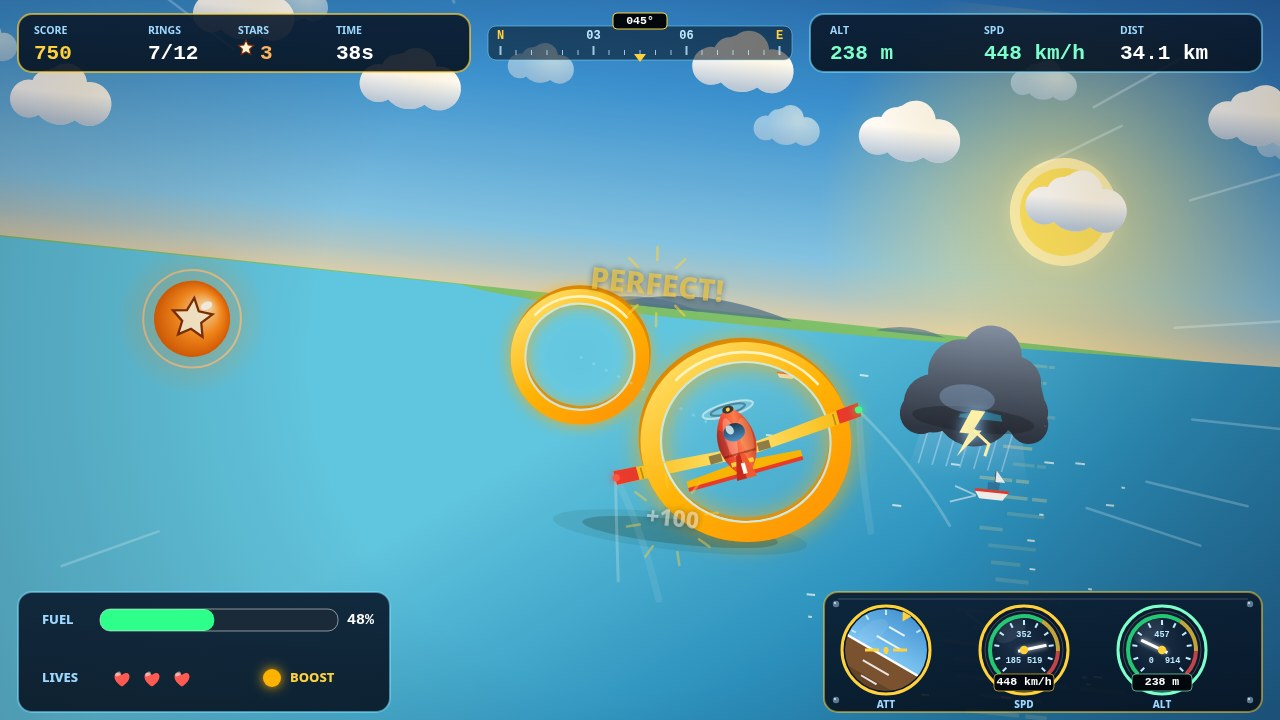
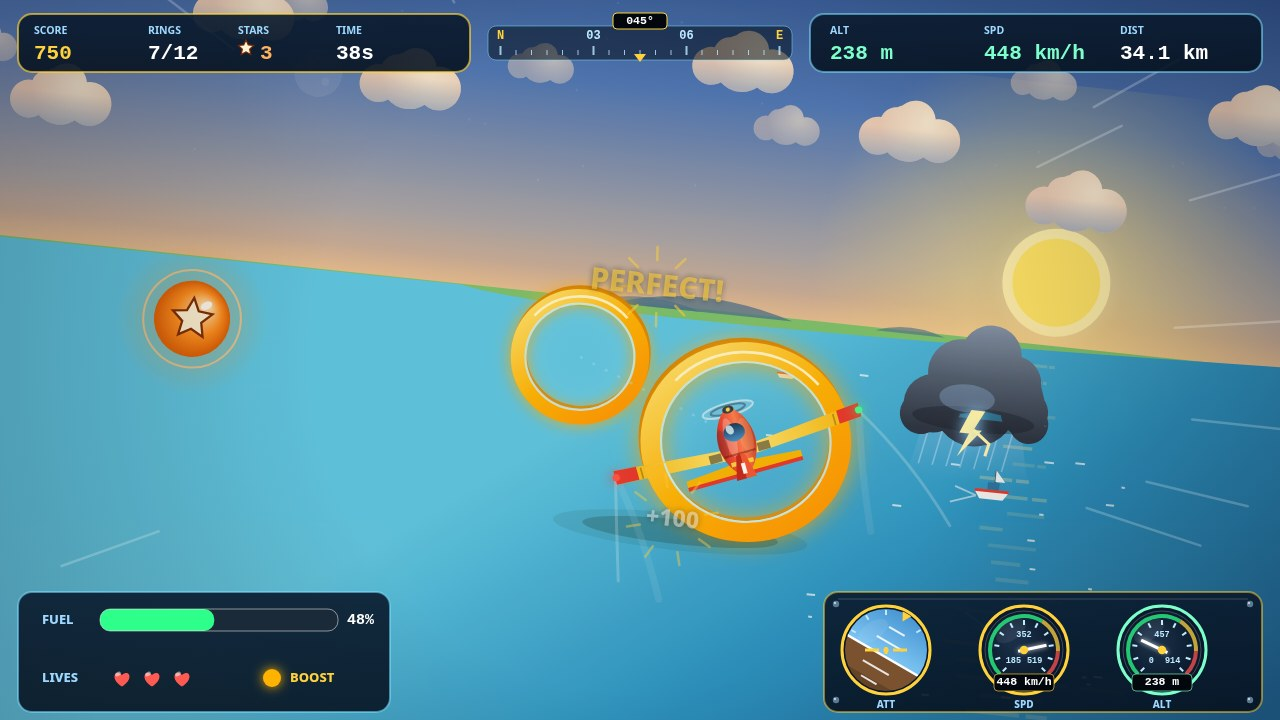
Compressed day cycle tied to run progress, with lit windows, plane lights and moon path at night

diff --git a/game/src/render.js b/game/src/render.js
@@ -20,6 +20,39 @@ function lerpCol(a, b, t) {
   return 'rgb(' + ca.map((v, i) => Math.round(v + (cb[i] - v) * t)).join(',') + ')';
 }
 
+// Compressed day cycle, keyed to run progress (elapsed / limit):
+// morning → day → golden hour → dusk → night → dawn → morning, so a
+// full run lands back near dawn at the finish. The golden-hour
+// keyframe is the look the static scene used to sit in permanently.
+// Fields: phase, sky stops (top/mid/low/horizon), sun height,
+// sun opacity, night weight, cloud tint. The sun keeps its x (every
+// other lighting cue in the scene — ridge faces, cloud shading,
+// fuselage sheen — already assumes light from the upper right) and
+// rides in height only.
+const DAY_KEYS = [
+  [0.00, '#2a6db4', '#69b7ea', '#a8d8f2', '#ffd9a0', 235, 1.00, 0.00, '#fdfdf8'],
+  [0.25, '#1668c8', '#4fb2ee', '#9fdcf7', '#cdeffd', 128, 1.00, 0.00, '#ffffff'],
+  [0.52, '#0d4f9e', '#2f8fd6', '#7cc4ea', '#ffcf99', 200, 1.00, 0.00, '#ffedd6'],
+  [0.66, '#232a5e', '#6a4a8c', '#e87a4a', '#ff9a52', 295, 0.75, 0.25, '#c99a8a'],
+  [0.74, '#050b20', '#0c1e3e', '#1d3a5f', '#2c587f', 340, 0.00, 1.00, '#5f7ba6'],
+  [0.84, '#2c4a7c', '#7d9cc2', '#d9a06a', '#ffb37a', 280, 0.60, 0.15, '#c8b4a8'],
+  [1.00, '#2a6db4', '#69b7ea', '#a8d8f2', '#ffd9a0', 235, 1.00, 0.00, '#fdfdf8'],
+];
+
+function dayAt(p) {
+  const x = clamp01(p);
+  let i = 0;
+  while (i < DAY_KEYS.length - 2 && x > DAY_KEYS[i + 1][0]) i++;
+  const A = DAY_KEYS[i], B = DAY_KEYS[i + 1];
+  const f = (x - A[0]) / Math.max(0.0001, B[0] - A[0]);
+  const mix = (j) => lerpCol(A[j], B[j], f);
+  const num = (j) => A[j] + (B[j] - A[j]) * f;
+  return {
+    top: mix(1), mid: mix(2), low: mix(3), hor: mix(4),
+    sunY: num(5), sunA: num(6), night: num(7), cloud: mix(8),
+  };
+}
+
 export function createRenderer(canvas) {
   const ctx = canvas.getContext('2d');
   canvas.width = FIELD.width;
@@ -119,7 +152,7 @@ export function createRenderer(canvas) {
   // anchor the bottom of the sprite. Forward is up-screen (-y) but
   // the nose sits level, at cruise attitude: the plane flies away
   // from the camera, it does not stand on its tail.
-  function planeRear(x, y, bank, scale, pitch = 0) {
+  function planeRear(x, y, bank, scale, pitch = 0, night = 0, t = 0) {
     ctx.save();
     ctx.translate(x + bank * 9, y);
     ctx.rotate(bank * 0.36);
@@ -129,6 +162,16 @@ export function createRenderer(canvas) {
     // stretches it and drops the disc
     ctx.scale(1, 1 - pitch * 0.13);
     const noseY = -31 - pitch * 5;
+
+    // headlight: at night the nose lamp throws a soft pool of light
+    // onto the ground ahead of the plane (stylised, not simulated)
+    if (night > 0.02) {
+      const hg = ctx.createRadialGradient(0, noseY - 54, 4, 0, noseY - 54, 64);
+      hg.addColorStop(0, 'rgba(255,244,190,' + (0.34 * night).toFixed(3) + ')');
+      hg.addColorStop(1, 'rgba(255,244,190,0)');
+      ctx.fillStyle = hg;
+      ctx.beginPath(); ctx.ellipse(0, noseY - 54, 64, 21, 0, 0, 7); ctx.fill();
+    }
 
     // propeller: small translucent blur disc at the far nose — the
     // far end of a foreshortened airframe, so barely wider than the
@@ -160,9 +203,22 @@ export function createRenderer(canvas) {
     ctx.beginPath(); ctx.moveTo(-96, 0); ctx.lineTo(-96, 11.5); ctx.moveTo(96, 0); ctx.lineTo(96, 11.5); ctx.stroke();
     ctx.fillStyle = 'rgba(40,40,46,0.55)';
     ctx.fillRect(-30, 7.5, 12, 8.5); ctx.fillRect(18, 7.5, 12, 8.5);
-    // navigation lights on the wingtips
+    // navigation lights on the wingtips: port red, starboard
+    // green. Modest dots by day; at night they flare with a halo
+    // and a gentle pulse
     ctx.save();
-    ctx.shadowBlur = 9;
+    if (night > 0.02) {
+      ctx.globalAlpha = night * (0.78 + 0.22 * Math.sin(t * 6));
+      for (const [hx2, hc] of [[-121, 'rgba(255,59,48,'], [121, 'rgba(46,255,106,']]) {
+        const ng = ctx.createRadialGradient(hx2, 3, 1, hx2, 3, 17);
+        ng.addColorStop(0, hc + '0.55)');
+        ng.addColorStop(1, hc + '0)');
+        ctx.fillStyle = ng;
+        ctx.beginPath(); ctx.arc(hx2, 3, 17, 0, 7); ctx.fill();
+      }
+      ctx.globalAlpha = 1;
+    }
+    ctx.shadowBlur = 9 + night * 18;
     ctx.shadowColor = '#ff3b30'; ctx.fillStyle = '#ff5147';
     ctx.beginPath(); ctx.arc(-121, 3, 3.6, 0, 7); ctx.fill();
     ctx.shadowColor = '#2eff8a'; ctx.fillStyle = '#3dff8f';
@@ -238,6 +294,15 @@ export function createRenderer(canvas) {
     ctx.beginPath(); ctx.ellipse(0, noseY, 5.5, 3.8, 0, 0, 7); ctx.fill();
     ctx.fillStyle = '#ffd23d';
     ctx.beginPath(); ctx.arc(0, noseY, 2, 0, 7); ctx.fill();
+    // the headlight lamp itself, burning at the hub at night
+    if (night > 0.02) {
+      ctx.save();
+      ctx.globalAlpha = night;
+      ctx.shadowBlur = 14; ctx.shadowColor = '#fff2b0';
+      ctx.fillStyle = '#fff6c8';
+      ctx.beginPath(); ctx.arc(0, noseY, 3.2, 0, 7); ctx.fill();
+      ctx.restore();
+    }
 
     ctx.restore();
   }
@@ -585,7 +650,7 @@ export function createRenderer(canvas) {
   // block, 3 forest tree clump. The caller passes the part's own zone
   // and blend alpha, so old and new zone parts interleave naturally
   // while a changeover streams past.
-  function townElement(i, x, y, sc, w, h, zone, alpha, roof) {
+  function townElement(i, x, y, sc, w, h, zone, alpha, roof, night) {
     if (alpha <= 0.01 || zone === 1) return;
     ctx.save();
     ctx.globalAlpha = alpha;
@@ -593,10 +658,13 @@ export function createRenderer(canvas) {
       // city block: taller and wider, cool walls, a grid of windows
       const bw = w * 1.2, bh = h * 2.3;
       isoBox(x, y, bw, bh, 13 * sc, i % 2 ? '#cfd8dc' : '#aebfc7', i % 3 ? '#546e7a' : '#6d4c41');
-      ctx.fillStyle = '#ffd76a';
+      // windows: pale glass by day; at night they light up warm
+      // and more of them switch on
+      const lit = night > 0.25;
+      ctx.fillStyle = lit ? '#ffd76a' : 'rgba(176,206,228,0.55)';
       for (let r2 = 0; r2 < 3; r2++) {
         for (let c2 = 0; c2 < 2; c2++) {
-          if (hash(i * 31 + r2 * 7 + c2 * 13) > 0.45) {
+          if (hash(i * 31 + r2 * 7 + c2 * 13) > (lit ? 0.15 : 0.45)) {
             ctx.fillRect(x - bw * 0.30 + c2 * bw * 0.32, y - bh * (0.78 - r2 * 0.22), 4 * sc, 4.6 * sc);
           }
         }
@@ -764,6 +832,9 @@ export function createRenderer(canvas) {
     wts[camZ.a] = 1 - camZ.f;
     wts[camZ.b] += camZ.f;
     seaShift = -seaW * 1200;
+    // day cycle: run progress (elapsed / limit) drives the light
+    const prog = s.time + s.left > 0 ? clamp01(s.time / (s.time + s.left)) : 0;
+    const day = dayAt(prog);
 
     // ===== world, rolled slightly with the bank around the horizon =====
     ctx.save();
@@ -771,24 +842,55 @@ export function createRenderer(canvas) {
     ctx.rotate(-s.bank * 0.10);
     ctx.translate(-640, -hor);
 
-    // sky: late-afternoon grade — deep cobalt zenith, clear cyan mid,
-    // warm apricot settling on the horizon
+    // sky: colours from the day-cycle keyframes — bright morning and
+    // day, the old permanent late-afternoon grade at golden hour,
+    // purple dusk, deep blue night, warm dawn
     let g = ctx.createLinearGradient(0, -120, 0, hor + 40);
-    g.addColorStop(0, '#0d4f9e'); g.addColorStop(0.45, '#2f8fd6');
-    g.addColorStop(0.78, '#7cc4ea'); g.addColorStop(1, '#ffcf99');
+    g.addColorStop(0, day.top); g.addColorStop(0.45, day.mid);
+    g.addColorStop(0.78, day.low); g.addColorStop(1, day.hor);
     ctx.fillStyle = g;
     ctx.fillRect(-140, -120, W + 280, hor + 162);
-    // sun: low and large, fully clear of the HUD pills up top
-    const sun = ctx.createRadialGradient(1052, 168, 8, 1052, 168, 245);
-    sun.addColorStop(0, 'rgba(255,246,190,0.95)');
-    sun.addColorStop(0.25, 'rgba(255,224,120,0.55)');
-    sun.addColorStop(1, 'rgba(255,214,110,0)');
-    ctx.fillStyle = sun;
-    ctx.fillRect(800, -30, 500, 450);
-    ctx.fillStyle = '#fff3b0';
-    ctx.beginPath(); ctx.arc(1052, 168, 54, 0, 7); ctx.fill();
-    ctx.fillStyle = '#ffe45e';
-    ctx.beginPath(); ctx.arc(1052, 168, 44, 0, 7); ctx.fill();
+    // stars fade in as the night weight grows
+    if (day.night > 0.01) {
+      ctx.fillStyle = 'rgba(255,255,255,' + (day.night * 0.85).toFixed(3) + ')';
+      for (let i = 0; i < 42; i++) {
+        ctx.fillRect(hash(i * 3.9) * (W + 200) - 100, hash(i * 7.7) * Math.max(40, hor - 90), 2.2, 2.2);
+      }
+    }
+    // sun: glow, then the disc — height and opacity from the cycle,
+    // so it climbs through the morning, rides high at midday, sinks
+    // through golden hour and is gone at night
+    if (day.sunA > 0.01) {
+      ctx.save();
+      ctx.globalAlpha = day.sunA;
+      const sun = ctx.createRadialGradient(1052, day.sunY, 8, 1052, day.sunY, 245);
+      sun.addColorStop(0, 'rgba(255,246,190,0.95)');
+      sun.addColorStop(0.25, 'rgba(255,224,120,0.55)');
+      sun.addColorStop(1, 'rgba(255,214,110,0)');
+      ctx.fillStyle = sun;
+      ctx.fillRect(800, day.sunY - 198, 500, 450);
+      ctx.fillStyle = '#fff3b0';
+      ctx.beginPath(); ctx.arc(1052, day.sunY, 54, 0, 7); ctx.fill();
+      ctx.fillStyle = '#ffe45e';
+      ctx.beginPath(); ctx.arc(1052, day.sunY, 44, 0, 7); ctx.fill();
+      ctx.restore();
+    }
+    // moon, upper left, while the night lasts
+    if (day.night > 0.01) {
+      ctx.save();
+      ctx.globalAlpha = day.night;
+      const mg = ctx.createRadialGradient(296, 108, 6, 296, 108, 90);
+      mg.addColorStop(0, 'rgba(210,228,250,0.55)');
+      mg.addColorStop(1, 'rgba(210,228,250,0)');
+      ctx.fillStyle = mg;
+      ctx.fillRect(196, 8, 200, 200);
+      ctx.fillStyle = '#e9eff8';
+      ctx.beginPath(); ctx.arc(296, 108, 24, 0, 7); ctx.fill();
+      ctx.fillStyle = '#cdd9e8';
+      ctx.beginPath(); ctx.arc(288, 100, 5, 0, 7); ctx.fill();
+      ctx.beginPath(); ctx.arc(304, 116, 4, 0, 7); ctx.fill();
+      ctx.restore();
+    }
 
     // clouds: far hazy layer, then the near layer; cloudShift lets the
     // screenshot scenes park the clouds away from the title lettering
@@ -796,12 +898,12 @@ export function createRenderer(canvas) {
     for (let i = 0; i < 6; i++) {
       const cx = ((i * 251 + s.dist * 22 + csh * 0.6) % 1560) - 140, cy = 40 + (i % 3) * 36;
       ctx.globalAlpha = 0.5;
-      cloud(cx, cy, 0.62, '#eaf7ff');
+      cloud(cx, cy, 0.62, day.cloud);
       ctx.globalAlpha = 1;
     }
     for (let i = 0; i < 8; i++) {
       const cx = ((i * 173 + s.dist * 46 + csh) % 1540) - 130, cy = 54 + (i % 3) * 52;
-      cloud(cx, cy, 0.95, '#ffffff');
+      cloud(cx, cy, 0.95, day.cloud);
     }
 
     // layered far ridgelines on the LAND side only: the layers end at
@@ -884,8 +986,8 @@ export function createRenderer(canvas) {
       ctx.globalAlpha = 1 - pz.wSea;
       ctx.beginPath(); ctx.ellipse(hx + 3, hy + 3, w * 0.62, 4 * sc, 0, 0, 7); ctx.fill();
       ctx.globalAlpha = 1;
-      townElement(i, hx, hy, sc, w, h, pz.a, 1 - pz.f, roofs[i % roofs.length]);
-      if (pz.f > 0) townElement(i, hx, hy, sc, w, h, pz.b, pz.f, roofs[i % roofs.length]);
+      townElement(i, hx, hy, sc, w, h, pz.a, 1 - pz.f, roofs[i % roofs.length], day.night);
+      if (pz.f > 0) townElement(i, hx, hy, sc, w, h, pz.b, pz.f, roofs[i % roofs.length], day.night);
     }
     // harbour warehouses and a dock crane on the shore side of the
     // runway — home-harbour features, present only in the home zone
@@ -983,15 +1085,28 @@ export function createRenderer(canvas) {
     }
     ctx.stroke();
     // golden sun-path: irregular dashes under the sun, fine and dense
-    // far away, broader and broken up close in
+    // far away, broader and broken up close in. It dies away as the
+    // night comes on (glintK), and a paler silvery moon-path takes
+    // its place under the moon.
+    const glintK = 1 - day.night * 0.85;
     for (let i = 0; i < 26; i++) {
       const t = i / 25;
       const gy = hor + 20 + t * (H - hor - 2);
       const gw = (12 + t * 96) * (0.45 + hash(i * 7.3) * 0.9);
       const gx = 1052 + shX * 0.3 + Math.sin(i * 2.4) * 10 + (hash(i * 5) - 0.5) * 30;
-      ctx.fillStyle = 'rgba(255,226,150,' + (0.14 + 0.30 * (1 - t) * hash(i * 3.1 + 0.4)).toFixed(3) + ')';
+      ctx.fillStyle = 'rgba(255,226,150,' + ((0.14 + 0.30 * (1 - t) * hash(i * 3.1 + 0.4)) * glintK).toFixed(3) + ')';
       ctx.fillRect(gx - gw / 2, gy, gw, 3 + t * 1.6);
       if (hash(i * 11) > 0.55) ctx.fillRect(gx + gw * 0.62, gy, gw * 0.4, 3 + t * 1.6);
+    }
+    if (day.night > 0.03) {
+      for (let i = 0; i < 18; i++) {
+        const t = i / 17;
+        const gy = hor + 24 + t * (H - hor - 6);
+        const gw = (9 + t * 62) * (0.45 + hash(i * 6.1 + 0.7) * 0.9);
+        const gx = 296 + shX * 0.3 + Math.sin(i * 2.1 + 1) * 8 + (hash(i * 4.3 + 0.3) - 0.5) * 24;
+        ctx.fillStyle = 'rgba(205,226,248,' + ((0.10 + 0.24 * (1 - t) * hash(i * 3.7 + 0.6)) * day.night).toFixed(3) + ')';
+        ctx.fillRect(gx - gw / 2, gy, gw, 2.6 + t * 1.3);
+      }
     }
     // sparkles
     ctx.fillStyle = 'rgba(255,255,255,0.7)';
@@ -1231,7 +1346,7 @@ export function createRenderer(canvas) {
     ctx.fill();
 
     vortexTrails(s);
-    planeRear(s.x, s.y, s.bank, 1.04, s.pitch);
+    planeRear(s.x, s.y, s.bank, 1.04, s.pitch, day.night, s.time);
 
     // near ring: redraw its front arc over the plane so the plane reads
     // as threading the ring
@@ -1283,6 +1398,14 @@ export function createRenderer(canvas) {
       ctx.fillRect(-140, -120, W + 280, H + 190);
     }
     ctx.restore(); // end world roll
+
+    // nightfall over the world (sky, terrain, water, plane, items).
+    // The HUD and instruments are drawn after this pass, so they
+    // keep full contrast and read as lit panels against the dark.
+    if (day.night > 0.01) {
+      ctx.fillStyle = 'rgba(9,17,50,' + (day.night * 0.30).toFixed(3) + ')';
+      ctx.fillRect(0, 0, W, H);
+    }
 
     // cinematic vignette + warm grade
     const vg = ctx.createRadialGradient(640, 360, 330, 640, 360, 760);
@@ -1348,6 +1471,17 @@ export function createRenderer(canvas) {
     }
     compass(640, 43, s.heading);
 
+    // cockpit glow at night: a warm pool of light behind the lower
+    // panels, so the lit instruments pop against the darkened world
+    if (day.night > 0.01) {
+      for (const gp of [[204, 652], [1043, 652]]) {
+        const cg = ctx.createRadialGradient(gp[0], gp[1], 10, gp[0], gp[1], 260);
+        cg.addColorStop(0, 'rgba(255,186,92,' + (day.night * 0.20).toFixed(3) + ')');
+        cg.addColorStop(1, 'rgba(255,186,92,0)');
+        ctx.fillStyle = cg;
+        ctx.fillRect(gp[0] - 260, gp[1] - 130, 520, 260);
+      }
+    }
     // bottom-left status panel (hidden on the title screen)
     if (!onTitle) {
       panel(18, 592, 372, 120);
